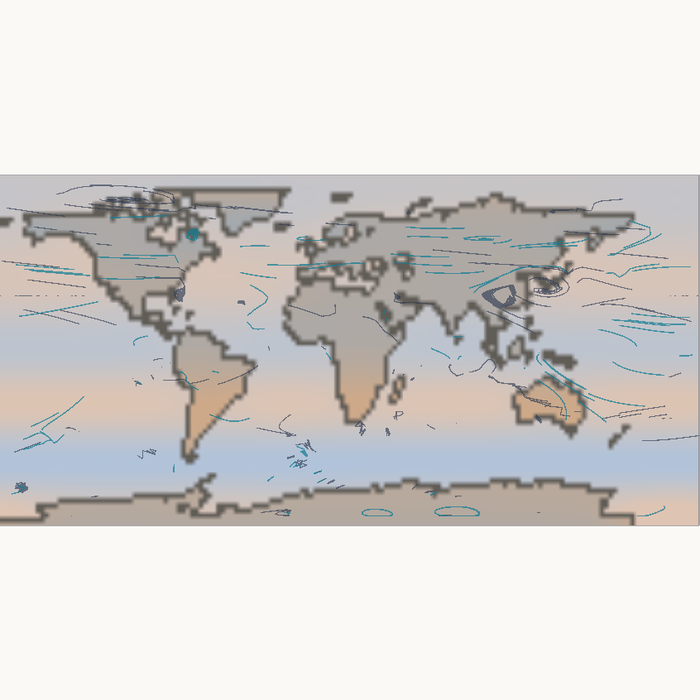
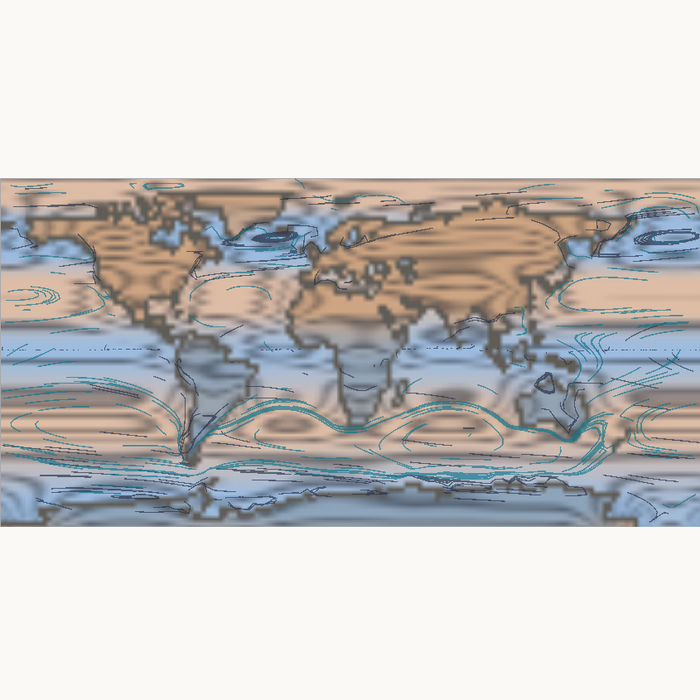
fix(circulation): the particles were drawn upside down, plus a weather-map rendering
Two real defects. First, the map image is flipped (row 0 is the south pole, the screen is north-up) but the particles were drawn straight from model rows, so the whole wind and current field appeared mirrored about the equator - every belt sat at the wrong latitude and the streaks looked like noise. Advection now keeps +v in model coordinates and only the drawing flips. Second, pressure was shown as a broad colour wash that buried the continental cells; it is now rendered the way a weather chart does it: 2 hPa isobars over a light tint. With the default month at January the model produces the continental pattern properly - Siberia 1027.2 hPa against 996.0 hPa over the ocean at the same latitude - and the isobars close around the highs. An LIC flow texture was tried and reverted: at 160x72 with a 6x upscale it smeared into mud.

diff --git a/apps/Physics/Circulation.py b/apps/Physics/Circulation.py
@@ -51,6 +51,37 @@ def _blur_y(a, sigma):
     return out
 
 
+def _bilinear(field, x, y):
+    x = np.mod(x, W - 1e-6)
+    y = np.clip(y, 0.0, H - 1.001)
+    x0 = x.astype(np.int32)
+    y0 = y.astype(np.int32)
+    fx = x - x0
+    fy = y - y0
+    x1 = (x0 + 1) % W
+    y1 = np.minimum(y0 + 1, H - 1)
+    return (field[y0, x0] * (1 - fx) * (1 - fy) + field[y0, x1] * fx * (1 - fy)
+            + field[y1, x0] * (1 - fx) * fy + field[y1, x1] * fx * fy)
+
+
+def _lic(u, v, iters=26, step=0.85, seed=5):
+    """线积分卷积：把噪声沿流场来回拖，得到连续的流线纹理。"""
+    rng = np.random.default_rng(seed)
+    noise = rng.random((H, W)).astype(np.float32)
+    noise = _blur_x(_blur_y(noise, 0.9), 0.9)
+    acc = np.zeros((H, W), np.float32)
+    for sgn in (1.0, -1.0):
+        x = np.tile(np.arange(W, dtype=np.float32), (H, 1))
+        y = np.repeat(np.arange(H, dtype=np.float32)[:, None], W, axis=1)
+        for _ in range(iters):
+            x = np.mod(x + _bilinear(u, x, y) * sgn * step, W)
+            y = np.clip(y + _bilinear(v, x, y) * sgn * step, 0, H - 1)
+            acc += _bilinear(noise, x, y)
+    acc /= (2.0 * iters)
+    lo, hi = np.percentile(acc, 3), np.percentile(acc, 97)
+    return np.clip((acc - lo) / max(1e-6, hi - lo), 0, 1)
+
+
 def _display_speed(u, v, v_ref):
     "保留方向，把速度压到可显示的区间：慢风也看得见，快风不会糊成一片。"
     mag = np.hypot(u, v)
@@ -73,9 +104,9 @@ class Circulation:
         ys = np.arange(H)[:, None] * np.ones((1, W))
         self.lat = 180.0 * ys / H - 90.0            # 第 0 行是南极
         self.lon = 360.0 * np.ones((H, 1)) * np.arange(W)[None, :] / W - 180.0
-        self.month = 4
+        self.month = 1
         self._solve_psi_setup()
-        self.update(4)
+        self.update(1)
 
     # ---------- 气压 ----------
     def _mslp(self):
@@ -190,9 +221,9 @@ class MapCanvas(QWidget):
 
         sx, sy = mw / W, mh / H
         if app.show_wind and app.wind_hist:
-            self._draw_trails(p, app.wind_hist, x0, y0, sx, sy, QColor(48, 60, 84, 165), 1.0)
+            self._draw_trails(p, app.wind_hist, x0, y0, sx, sy, QColor(38, 48, 70, 170), 1.0)
         if app.show_ocean and app.ocean_hist:
-            self._draw_trails(p, app.ocean_hist, x0, y0, sx, sy, QColor(20, 126, 148, 185), 1.2)
+            self._draw_trails(p, app.ocean_hist, x0, y0, sx, sy, QColor(12, 118, 140, 165), 1.2)
 
         p.setPen(QPen(QColor(120, 120, 126, 160), 1))
         p.setBrush(Qt.NoBrush)
@@ -212,9 +243,9 @@ class MapCanvas(QWidget):
             ys = arr[:, k, 1]
             if np.abs(np.diff(xs)).max() > W * 0.5:
                 continue                     # 跨日界线断开
-            path.moveTo(x0 + xs[0] * sx, y0 + ys[0] * sy)
+            path.moveTo(x0 + xs[0] * sx, y0 + (H - 1 - ys[0]) * sy)
             for i in range(1, K):
-                path.lineTo(x0 + xs[i] * sx, y0 + ys[i] * sy)
+                path.lineTo(x0 + xs[i] * sx, y0 + (H - 1 - ys[i]) * sy)
         p.drawPath(path)
 
 
@@ -228,15 +259,17 @@ class CirculationApp(QMainWindow):
         self.model = Circulation()
         self.image = None
         self.image_big = None
+        self._flow_wind = None
+        self._flow_ocean = None
         self.show_wind = True
         self.show_ocean = True
         self.show_pressure = True
         self.show_grid = True
         self.wind_hist = []
         self.ocean_hist = []
-        self.trail = 9
+        self.trail = 8
         self.auto_season = True
-        self._month_f = 4.0
+        self._month_f = 1.0
         self._rng = np.random.default_rng(11)
         self._init_particles()
         self._rebuild_image()
@@ -251,7 +284,7 @@ class CirculationApp(QMainWindow):
     # ---------- 粒子 ----------
     def _init_particles(self):
         oy, ox = np.nonzero(self.model.ocean)
-        n_w, n_o = 500, 280
+        n_w, n_o = 620, 320
         wi = self._rng.integers(0, len(ox), n_w)
         self.wx = ox[wi].astype(np.float64) + self._rng.random(n_w)
         self.wy = oy[wi].astype(np.float64) + self._rng.random(n_w)
@@ -287,7 +320,7 @@ class CirculationApp(QMainWindow):
         wv = self._sample(v, self.wx, self.wy)
         wu, wv = _display_speed(wu, wv, 6.0)
         self.wx = np.mod(self.wx + wu * sp, W)
-        self.wy = np.clip(self.wy - wv * sp, 0.5, H - 1.5)
+        self.wy = np.clip(self.wy + wv * sp, 0.5, H - 1.5)
         bad = (self._rng.random(len(self.wx)) < 0.006) | \
               (self.wy <= 0.51) | (self.wy >= H - 1.51)
         oy, ox = np.nonzero(self.model.ocean)
@@ -307,7 +340,7 @@ class CirculationApp(QMainWindow):
         cv = self._sample(ov, self.ox_, self.oy_)
         cu, cv = _display_speed(cu, cv, 3.5)
         self.ox_ = np.mod(self.ox_ + cu * sp, W)
-        self.oy_ = np.clip(self.oy_ - cv * sp, 1.0, H - 2.0)
+        self.oy_ = np.clip(self.oy_ + cv * sp, 1.0, H - 2.0)
         ox0 = self.ox_.astype(np.int32) % W
         oy0 = self.oy_.astype(np.int32).clip(0, H - 1)
         landed = self.model.land[oy0, ox0] | (self._rng.random(len(self.ox_)) < 0.004)
@@ -328,6 +361,37 @@ class CirculationApp(QMainWindow):
             self.ocean_hist.pop(0)
 
     # ---------- 底图 ----------
+    def _build_flow_layer(self):
+        """把风场和洋流的 LIC 纹理烘成 RGBA 图层，颜色按流向取。"""
+        def layer(u, v, ref, hue_shift, rgb):
+            mag = np.hypot(u, v)
+            ang = np.arctan2(v, u)
+            lic = _lic(u, v, seed=hash(hue_shift) % 997)
+            inten = lic * np.clip(mag / max(1e-6, ref), 0.15, 1.0)
+            inten = np.clip(inten / max(1e-6, np.percentile(inten, 99)), 0, 1)
+            # 方向决定色相：沿流向有冷暖变化，和参考实现一致
+            base = 0.62 + 0.38 * np.cos(ang[..., None] + np.array(hue_shift))
+            col = np.array(rgb, np.float32) * base
+            return np.dstack([col, (inten * 255.0)])          # RGBA
+
+        wu, wv = self.model.wind
+        wind_a = layer(wu, wv, np.percentile(np.hypot(wu, wv), 96), (0.0, 2.1, 4.2),
+                       (52, 62, 88))
+        ou = np.where(self.model.land, 0.0, self.model.ocean_u)
+        ov = np.where(self.model.land, 0.0, self.model.ocean_v)
+        ocean_a = layer(ou, ov, max(1e-6, np.percentile(np.hypot(ou, ov), 96)),
+                        (1.2, 3.0, 5.2), (16, 108, 132))
+        self._flow_wind = self._to_qimage_rgba(wind_a)
+        self._flow_ocean = self._to_qimage_rgba(ocean_a)
+
+    @staticmethod
+    def _to_qimage_rgba(a):
+        from scipy.ndimage import zoom
+        big = zoom(a, (6, 6, 1), order=1)
+        big = np.clip(big, 0, 255).astype(np.uint8)
+        big = np.ascontiguousarray(big)
+        return QImage(big.data, W * 6, H * 6, W * 24, QImage.Format_RGBA8888).copy()
+
     def _rebuild_image(self):
         land = np.flipud(self.model.land)          # 北在上
         p = np.flipud(self.model.p)
@@ -337,12 +401,20 @@ class CirculationApp(QMainWindow):
         rgb = np.where(land[..., None], land_rgb, ocean_rgb).astype(np.float32)
 
         if self.show_pressure:
-            lo, hi = 985.0, 1030.0
-            t = np.clip((p - lo) / (hi - lo), 0.0, 1.0)[..., None]
+            # 以 1013 为中心的发散色标：把陆地高/低压、海洋低压都凸显出来
+            t = np.clip((p - 1013.0) / 10.0, -1.0, 1.0)[..., None]
+            t = (t + 1.0) * 0.5
             cold = np.array([70, 130, 200], np.float32)
             warm = np.array([214, 132, 74], np.float32)
             tint = cold * (1 - t) + warm * t
-            rgb = rgb * 0.62 + tint * 0.38
+            rgb = rgb * 0.55 + tint * 0.45
+
+        # 等压线：每 4 hPa 一条
+        iso = np.zeros_like(p)
+        for lv in np.arange(980.0, 1050.0, 2.0):
+            iso = np.maximum(iso, np.clip(1.0 - np.abs(p - lv) / 0.55, 0.0, 1.0))
+        iso = _blur_x(iso, 0.7)
+        rgb = rgb * (1 - 0.55 * iso[..., None]) + np.array([36, 40, 48], np.float32) * (0.55 * iso[..., None])
 
         # 海岸线
         coast = np.zeros_like(land)
@@ -416,8 +488,8 @@ class CirculationApp(QMainWindow):
         f1.setContentsMargins(8, 8, 8, 8)
         self.month_s = QSlider(Qt.Horizontal)
         self.month_s.setRange(1, 12)
-        self.month_s.setValue(4)
-        self.lbl_month = QLabel("4 月")
+        self.month_s.setValue(1)
+        self.lbl_month = QLabel("1 月")
         self.lbl_month.setFixedWidth(44)
         self.lbl_month.setAlignment(Qt.AlignRight | Qt.AlignVCenter)
         self.month_s.valueChanged.connect(self._on_month)
